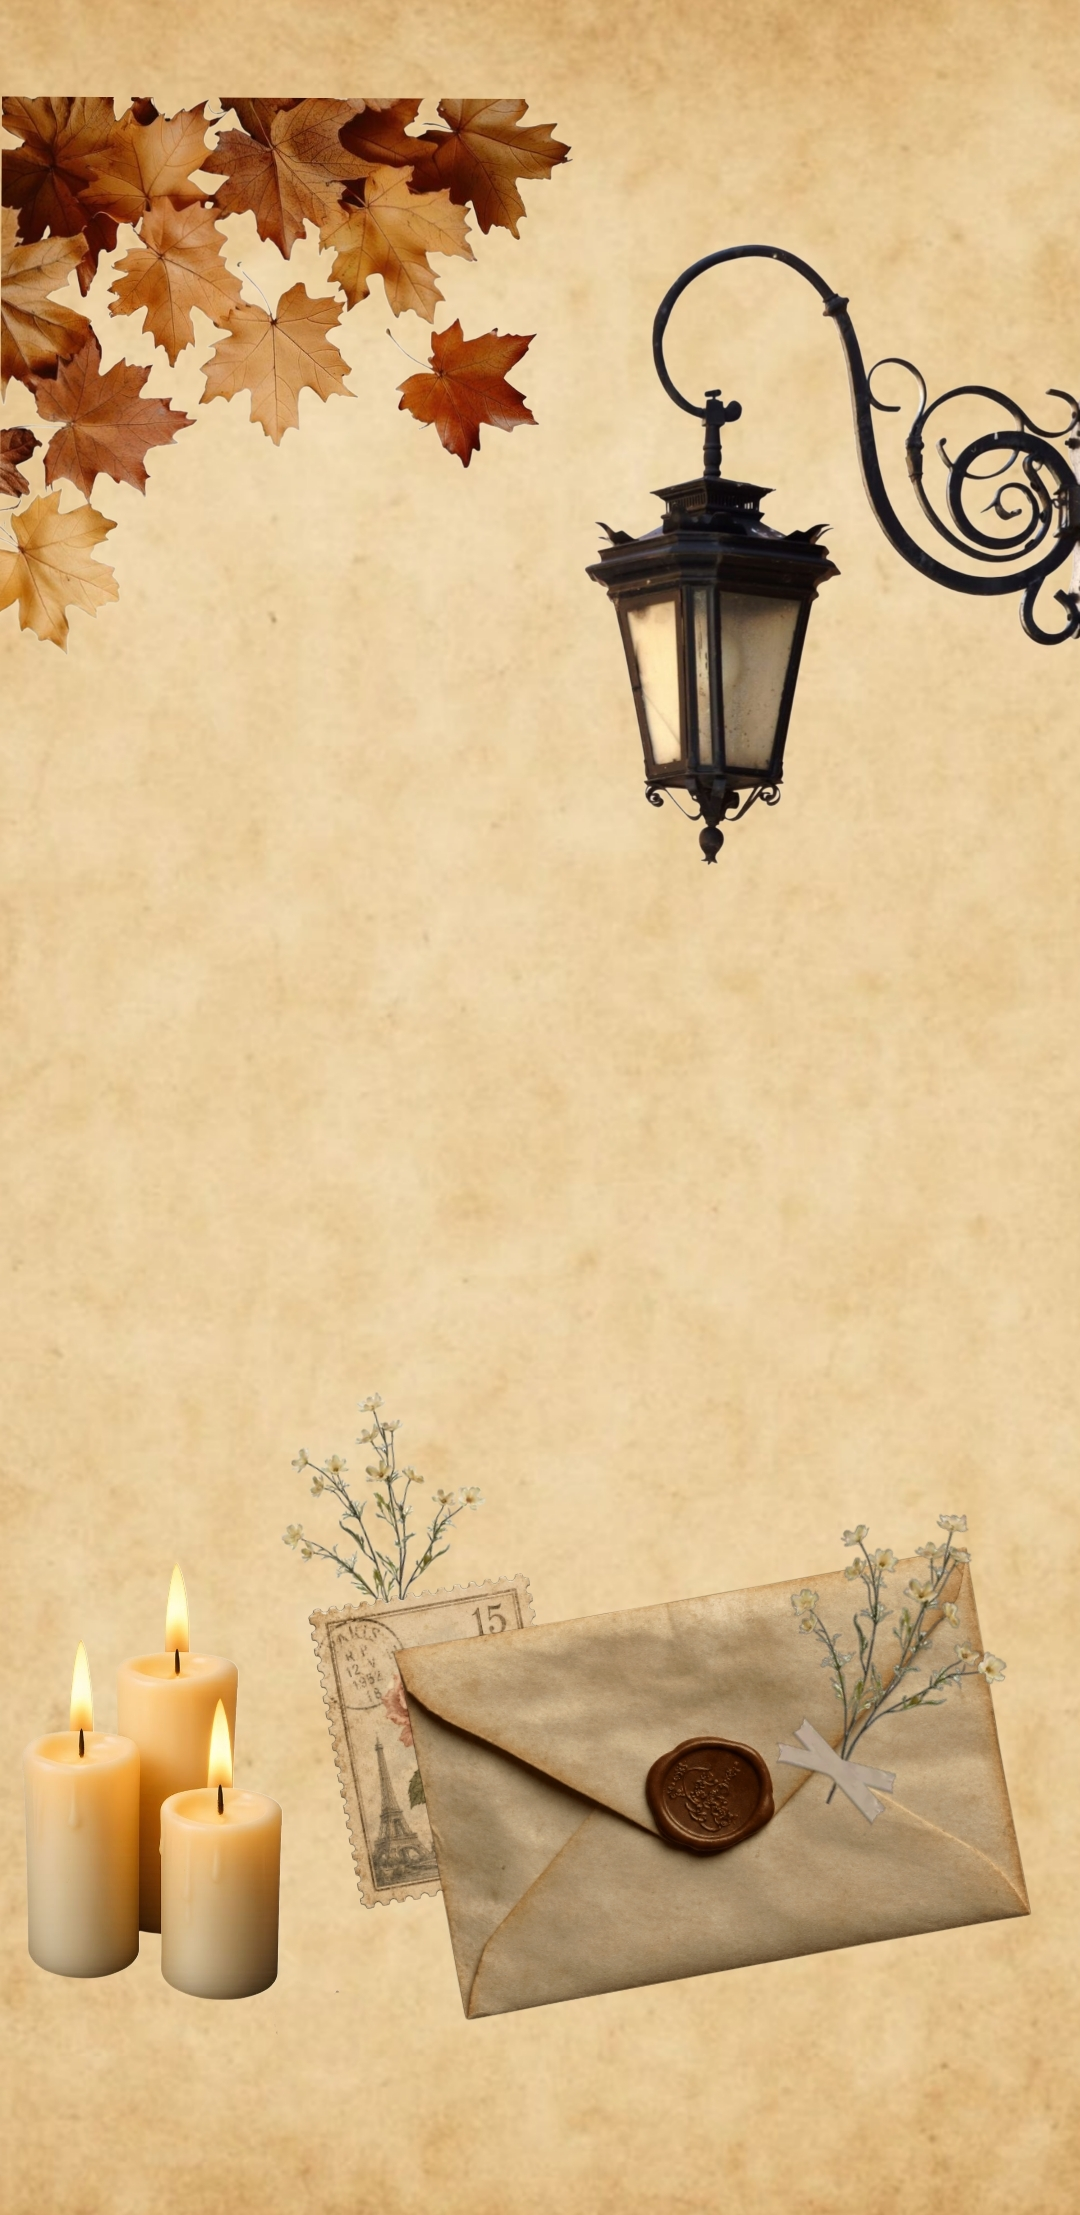
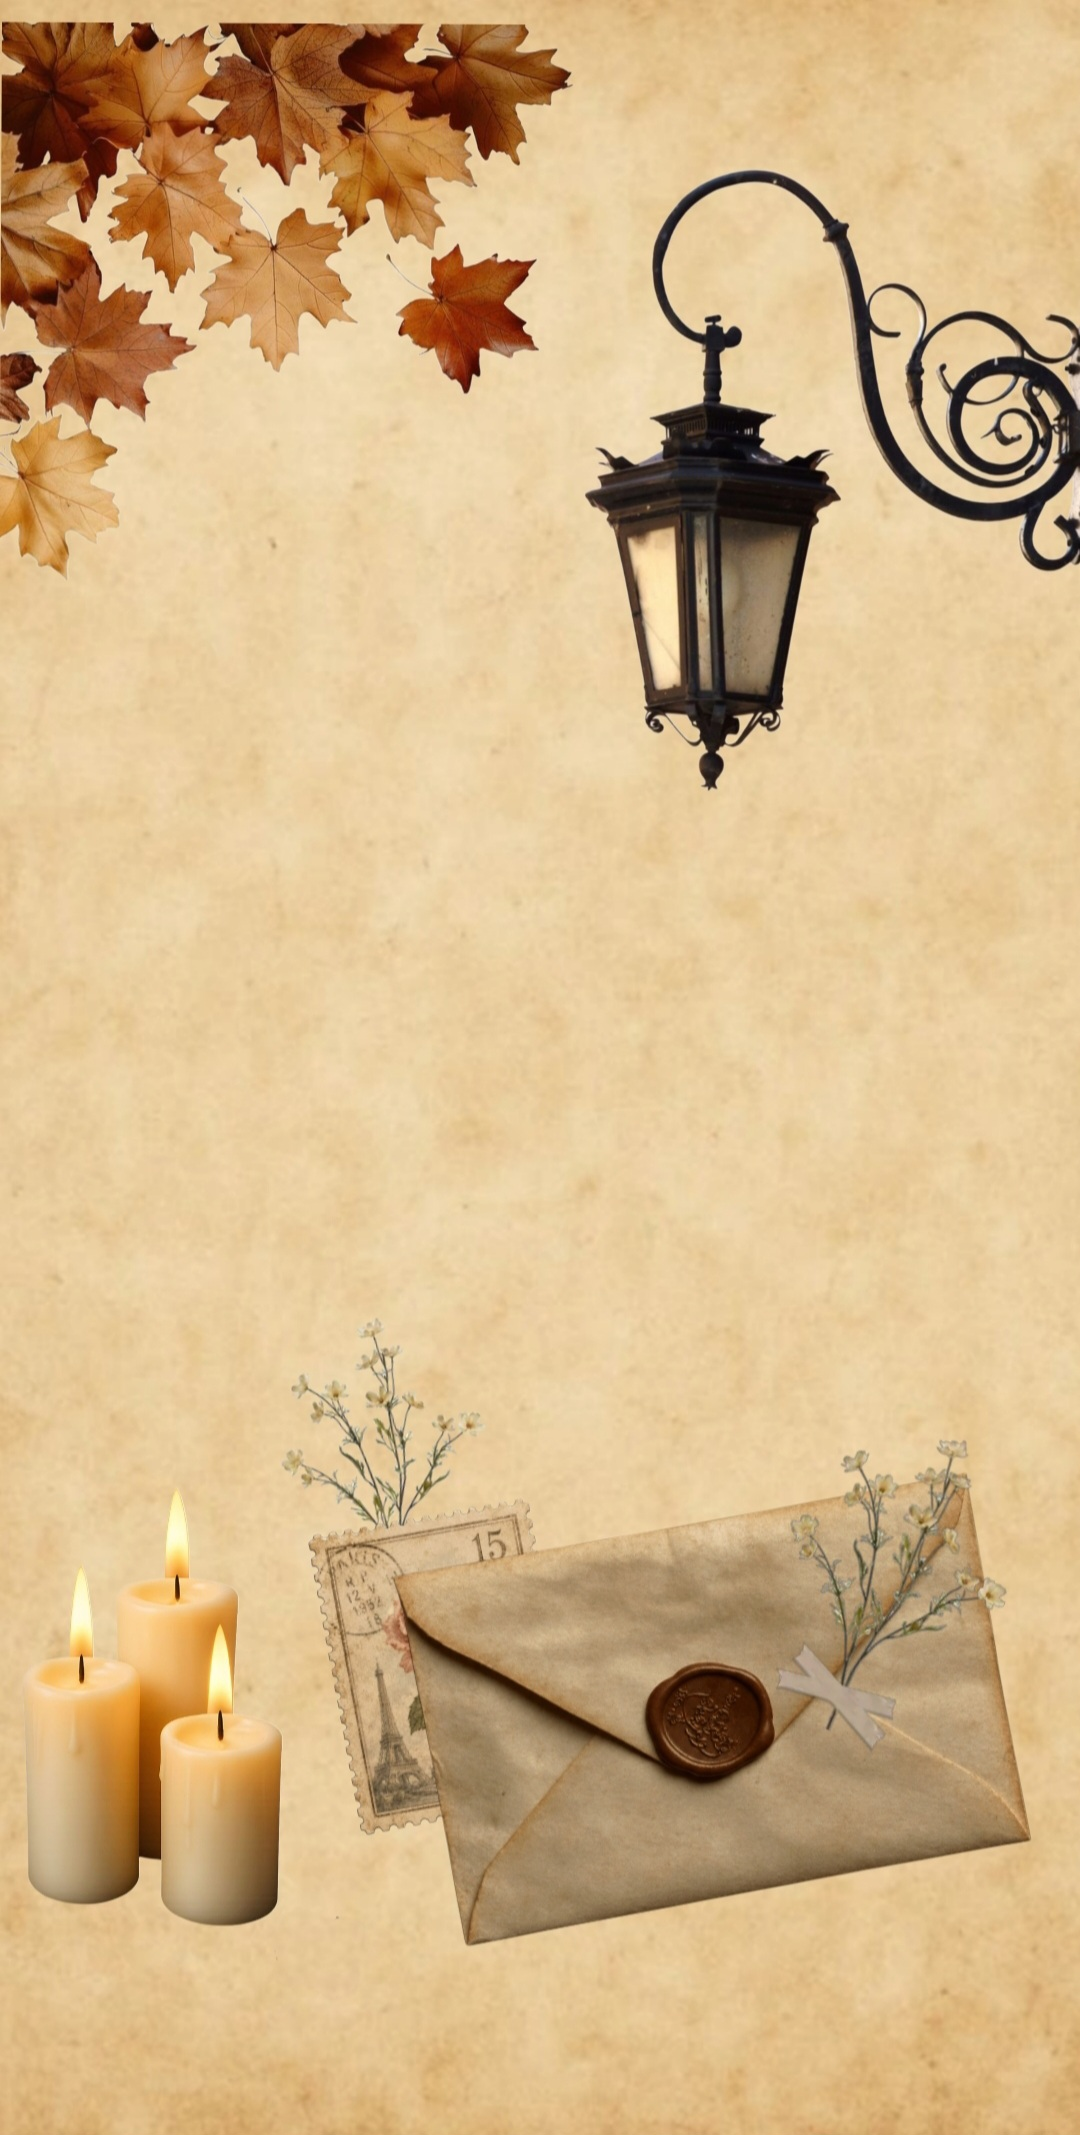
Update birthday website

diff --git a/jm.css b/jm.css
@@ -516,6 +516,8 @@ html {
   padding: 0;
   border: none;
   background: transparent;
+  appearance: none;
+  -webkit-appearance: none;
   color: #5a3b2c;
   font-family: Georgia, serif;
   font-size: 24px;
@@ -1603,7 +1605,9 @@ body {
   border: none;
   background: transparent !important;
   color: #4b3024 !important;
-  font-family: Georgia, serif !important;
+  /* font-family: Georgia, serif !important; */
+  font-family: Arial, Helvetica, sans-serif;
+  font-variant-emoji: text;
   font-size: 22px;
   font-weight: normal;
   padding: 4px 8px;
@@ -1612,6 +1616,13 @@ body {
   min-height: auto;
   cursor: pointer;
   -webkit-tap-highlight-color: transparent;
+}
+
+.player-play {
+  font-family: Arial, Helvetica, sans-serif;
+  font-variant-emoji: text;
+  -webkit-appearance: none;
+  appearance: none;
 }
 
 .player-wheel button {

diff --git a/index.html b/index.html
@@ -917,7 +917,7 @@
            <section id="collection" class="collection-section">
 
             <div class="collection-intro">
-                <h2>Collection☾⋆⁺</h2>
+                <h2>Collection⋆⁺</h2>
                 <p>A little collection of my favorite yous</p>
             </div>
             
